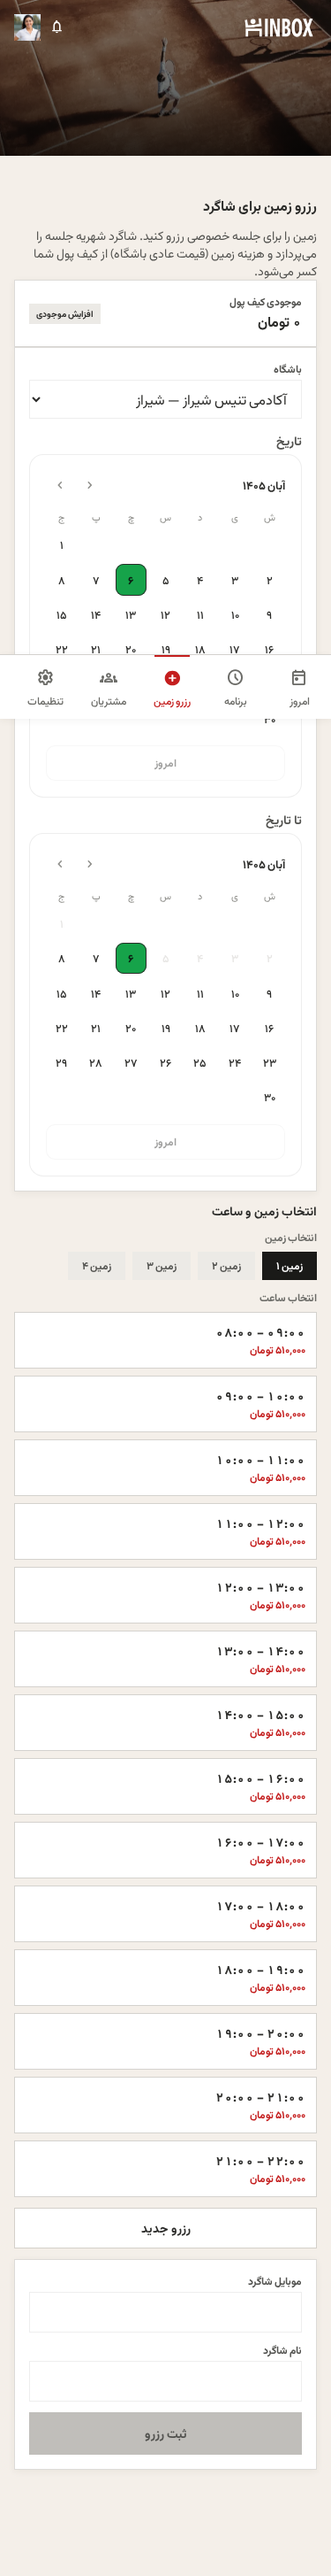
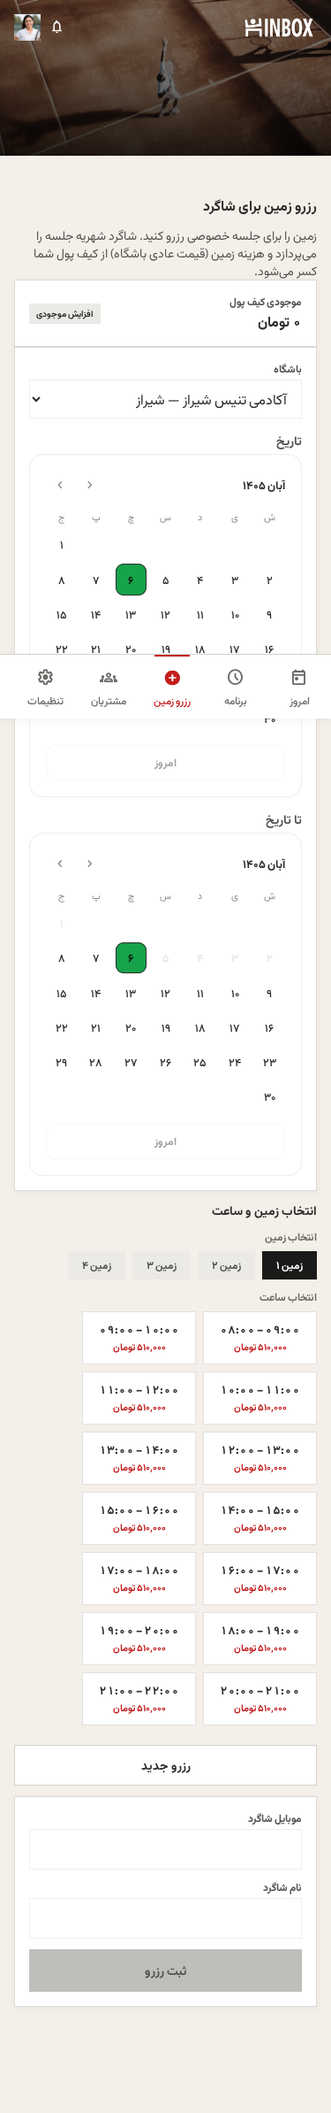
fidelity(owner/crm detail, coach/book): SoT back link/phone/consent; compact wrapped hour buttons

diff --git a/app/pages/owner/crm/[id].vue b/app/pages/owner/crm/[id].vue
@@ -36,23 +36,16 @@ function campaignStatusLabel(status: string) {
 
 <template>
   <div class="venus-page-stack">
-    <CanvaSubpageHeader to="/owner/crm" :title="t('owner.crm')" />
+    <NuxtLink :to="localePath('/owner/crm')" class="crm-back">← {{ t('owner.crm') }}</NuxtLink>
     <AppAsyncState :pending="pending" :error="error" :empty="!contact" skeleton-variant="default">
       <div v-if="contact" class="venus-page-stack">
-        <section class="canva-dash-hero hidden max-[430px]:block">
-          <h1 class="mt-2 font-display text-2xl font-bold text-white">{{ contact.name }}</h1>
-          <p class="mt-1 text-sm text-white/85"><bdi dir="ltr" class="tabular-nums">{{ contact.mobile ? formatPhone(contact.mobile) : '—' }}</bdi></p>
-          <span
-            class="canva-chip mt-3 inline-flex w-fit items-center gap-1 px-2.5 py-1 text-xs font-bold"
-            style="border-radius: var(--sz-canva-radius);"
-            :class="contact.consentSms ? 'bg-white/20 text-white' : 'bg-black/20 text-white/70'"
-          >
-            <AppIcon :name="contact.consentSms ? 'sms' : 'sms_failed'" size="sm" />
+        <div>
+          <h1 class="crm-name">{{ contact.name }}</h1>
+          <p class="crm-phone" dir="ltr"><bdi class="tabular-nums">{{ contact.mobile ? formatPhone(contact.mobile) : '—' }}</bdi></p>
+          <span class="crm-consent" :class="contact.consentSms ? 'is-yes' : 'is-no'">
             {{ contact.consentSms ? t('owner.playerDetail.consentYes') : t('owner.playerDetail.consentNo') }}
           </span>
-        </section>
-
-        <h1 class="hidden text-start text-2xl font-bold text-brand-navy min-[431px]:block">{{ contact.name }}</h1>
+        </div>
 
         <div class="grid grid-cols-2 gap-3 sm:grid-cols-3 lg:grid-cols-5">
           <div class="canva-panel">
@@ -83,7 +76,7 @@ function campaignStatusLabel(status: string) {
           <div v-for="item in recentCampaigns" :key="item.id" class="canva-list-card">
             <div class="flex items-center justify-between gap-3">
               <p class="font-bold text-brand-navy">{{ item.campaign?.name || '—' }}</p>
-              <span v-if="item.campaign?.status" class="neo-badge">{{ campaignStatusLabel(item.campaign.status) }}</span>
+              <span v-if="item.campaign?.status" class="crm-consent is-yes !mb-0">{{ campaignStatusLabel(item.campaign.status) }}</span>
             </div>
             <p class="mt-1 text-xs text-brand-gray-500"><bdi dir="ltr" class="tabular-nums">{{ formatIsoDate(item.createdAt || '') }}</bdi></p>
           </div>
@@ -92,3 +85,13 @@ function campaignStatusLabel(status: string) {
     </AppAsyncState>
   </div>
 </template>
+
+<style scoped>
+/* SoT: design-reference/sot/inbox-all-pages.html #pg-owner-crm-detail (.adback, h1 26px, .cxp, .adtag.g) */
+.crm-back { display: inline-block; align-self: flex-start; font-weight: 700; text-decoration: underline; font-size: 13px; color: #2c2c2a; }
+.crm-name { font-size: 26px; font-weight: 700; margin: 6px 0 4px; color: #2c2c2a; text-align: start; }
+.crm-phone { font-size: 13px; color: #4a4a47; margin: 6px 0 10px; text-align: right; }
+.crm-consent { display: inline-block; font-size: 11px; padding: 3px 10px; font-weight: 700; }
+.crm-consent.is-yes { background: #e6f6ee; color: #17603a; }
+.crm-consent.is-no { background: #f1efe9; color: #6b6b67; }
+</style>

diff --git a/app/pages/coach/book.vue b/app/pages/coach/book.vue
@@ -767,20 +767,21 @@ async function startTopUp() {
 
               <div v-if="selectedCourtGroup">
                 <p class="mb-2 text-start text-xs font-bold text-brand-gray-500">{{ $t('coach.book.pickTime') }}</p>
-                <div class="flex flex-col gap-2">
+                <div class="cb-slots">
                   <button
                     v-for="slot in selectedCourtGroup.bookable"
                     :key="slot.id"
                     type="button"
-                    class="canva-finance-tx-card"
-                    :class="slot.id === selectedSlotId ? 'border-brand-primary bg-brand-primary-soft' : ''"
+                    class="cb-slot"
+                    :class="slot.id === selectedSlotId ? 'is-on' : ''"
+                    :aria-pressed="slot.id === selectedSlotId"
                     @click="selectedSlotId = slot.id"
                   >
-                    <div class="min-w-0 flex-1 text-start">
-                      <p class="text-sm font-bold text-brand-navy">
+                    <div class="text-center">
+                      <p class="text-[13px] font-bold">
                         <bdi dir="ltr" class="tabular-nums">{{ formatTimeRange(slot.startTime, slot.endTime) }}</bdi>
                       </p>
-                      <p class="mt-0.5 text-xs font-bold text-brand-primary" dir="auto">
+                      <p class="cb-slot-price mt-0.5 text-[11px] font-bold" dir="auto">
                         {{ formatCurrency(slot.courtCharge) }}
                       </p>
                     </div>
@@ -788,10 +789,10 @@ async function startTopUp() {
                   <div
                     v-for="slot in selectedCourtGroup.blocked"
                     :key="`ext-${slot.id}`"
-                    :class="isExternalUncertain(slot) ? 'canva-finance-tx-card border-amber-300 bg-amber-50 opacity-90' : 'canva-finance-tx-card border-brand-gray-200 bg-brand-gray-50 opacity-80'"
+                    :class="isExternalUncertain(slot) ? 'cb-slot border-amber-300 bg-amber-50 opacity-90' : 'cb-slot bg-brand-gray-50 opacity-80'"
                     aria-disabled="true"
                   >
-                    <div class="min-w-0 flex-1 text-start">
+                    <div class="text-center">
                       <p class="text-sm font-bold text-brand-gray-600">
                         <bdi dir="ltr" class="tabular-nums">{{ formatTimeRange(slot.startTime, slot.endTime) }}</bdi>
                       </p>
@@ -1003,3 +1004,12 @@ async function startTopUp() {
     </div>
   </div>
 </template>
+
+<style scoped>
+/* SoT #pg-coach-book .cxslots: wrapped compact hour buttons, selected = red */
+.cb-slots { display: flex; flex-wrap: wrap; gap: 8px; margin-bottom: 10px; }
+.cb-slot { padding: 10px 18px; background: #fff; border: 1px solid rgba(44,44,42,.14); font-size: 13px; color: #2c2c2a; cursor: pointer; }
+.cb-slot-price { color: #c41e1e; }
+.cb-slot.is-on { background: #c41e1e; border-color: #c41e1e; color: #fff; }
+.cb-slot.is-on .cb-slot-price { color: #fff; }
+</style>
